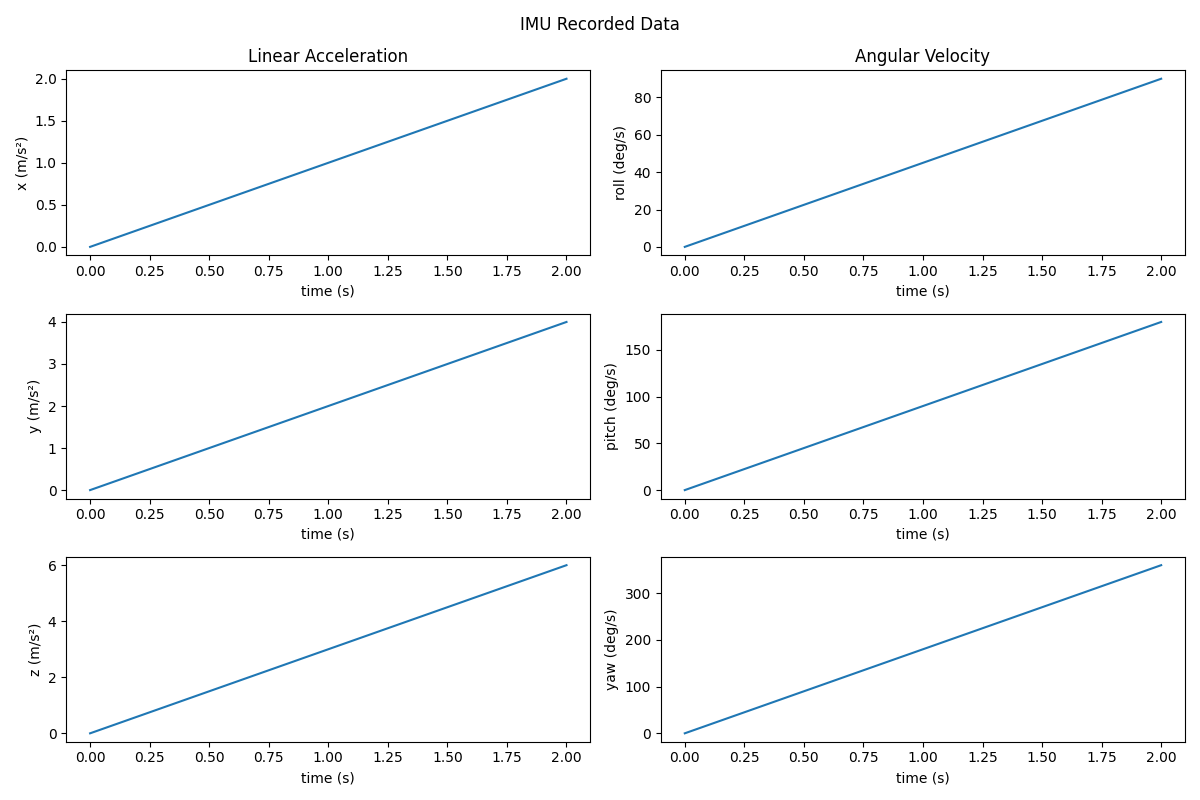
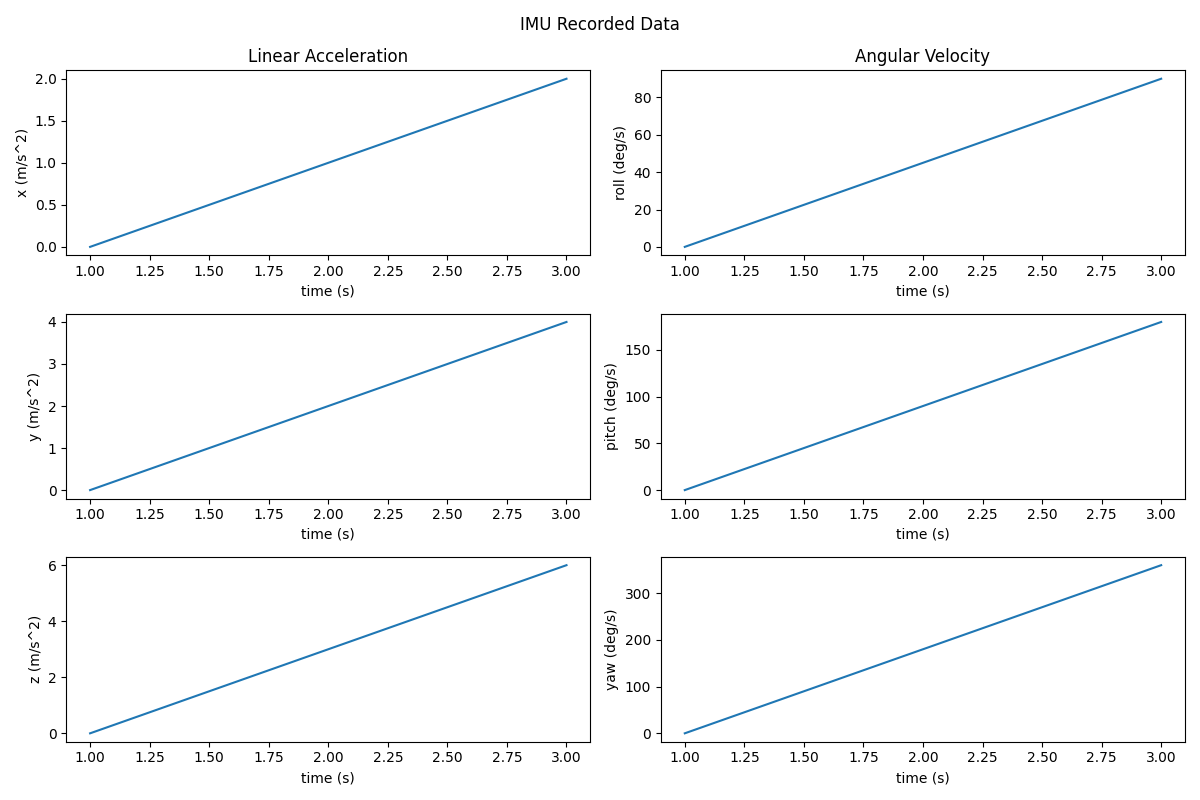
feat(signal-receptor): write data parser

diff --git a/signal/reception/receive.py b/signal/reception/receive.py
@@ -1,60 +1,100 @@
+from array import array
+import struct
+from typing import Any
+
 import matplotlib.pyplot as plt
+
+# Device sends batches of IMU samples within each BLE notification as raw bytes in little-endian format.
+# Refer to IMUSensorPort.hpp for the exact C++ struct.
+IMU_SAMPLE_STRUCT = struct.Struct("<ffffffq")  # 6 floats, 1 int64_t timestamp
+IMU_SAMPLE_SIZE_BYTES = IMU_SAMPLE_STRUCT.size
+
+LOGGING_PERIOD_IN_NOTIFICATIONS = 5
+notificationCount = 0
 
 EXPORTED_DATA_FILE_NAME = "motionData"
 
-motionData = [
-    {
-        "a": {"x": 0, "y": 0, "z": 0},
-        "w": {"roll": 0, "pitch": 0, "yaw": 0},
-        "t": 0,
-    },
-    {
-        "a": {"x": 1, "y": 2, "z": 3},
-        "w": {"roll": 45, "pitch": 90, "yaw": 180},
-        "t": 1,
-    },
-    {
-        "a": {"x": 2, "y": 4, "z": 6},
-        "w": {"roll": 90, "pitch": 180, "yaw": 360},
-        "t": 2,
-    },
-]
+# Prefer C-typed arrays over Python lists/dictionaries for better performance and lower memory overhead
+ax = array("f")
+ay = array("f")
+az = array("f")
+roll = array("f")
+pitch = array("f")
+yaw = array("f")
+tMicroseconds = array("q")
 
 
-def plot():
-    t = [row["t"] for row in motionData]
-    ax = [row["a"]["x"] for row in motionData]
-    ay = [row["a"]["y"] for row in motionData]
-    az = [row["a"]["z"] for row in motionData]
-    roll = [row["w"]["roll"] for row in motionData]
-    pitch = [row["w"]["pitch"] for row in motionData]
-    yaw = [row["w"]["yaw"] for row in motionData]
+def onImuNotification(characteristic: Any, data: bytearray) -> None:
+    global notificationCount
+
+    payload = memoryview(data)
+    payloadSize = payload.nbytes
+
+    if payloadSize == 0:
+        return
+
+    if payloadSize % IMU_SAMPLE_STRUCT.size != 0:
+        raise ValueError("Invalid payload size")
+
+    for (
+        sampleAx,
+        sampleAy,
+        sampleAz,
+        sampleRoll,
+        samplePitch,
+        sampleYaw,
+        sampleT,
+    ) in IMU_SAMPLE_STRUCT.iter_unpack(payload):
+        ax.append(sampleAx)
+        ay.append(sampleAy)
+        az.append(sampleAz)
+        roll.append(sampleRoll)
+        pitch.append(samplePitch)
+        yaw.append(sampleYaw)
+        tMicroseconds.append(sampleT)
+
+    notificationCount += 1
+    if notificationCount >= LOGGING_PERIOD_IN_NOTIFICATIONS:
+        print(
+            f"Sample from batch: ax: {ax[-1]}, ay: {ay[-1]}, az: {az[-1]}, "
+            f"roll: {roll[-1]}, pitch: {pitch[-1]}, yaw: {yaw[-1]}, "
+            f"timestamp: {tMicroseconds[-1]}"
+        )
+        notificationCount = 0
+
+
+def plot() -> None:
+    if len(tMicroseconds) == 0:
+        print("No samples available to plot")
+        return
+
+    tSeconds = [t / 1000000.0 for t in tMicroseconds]
 
     fig, axes = plt.subplots(3, 2, figsize=(12, 8))
 
-    axes[0, 0].plot(t, ax)
-    axes[0, 0].set_ylabel("x (m/s²)")
+    axes[0, 0].plot(tSeconds, ax)
+    axes[0, 0].set_ylabel("x (m/s^2)")
     axes[0, 0].set_xlabel("time (s)")
     axes[0, 0].set_title("Linear Acceleration")
 
-    axes[0, 1].plot(t, roll)
+    axes[0, 1].plot(tSeconds, roll)
     axes[0, 1].set_ylabel("roll (deg/s)")
     axes[0, 1].set_xlabel("time (s)")
     axes[0, 1].set_title("Angular Velocity")
 
-    axes[1, 0].plot(t, ay)
-    axes[1, 0].set_ylabel("y (m/s²)")
+    axes[1, 0].plot(tSeconds, ay)
+    axes[1, 0].set_ylabel("y (m/s^2)")
     axes[1, 0].set_xlabel("time (s)")
 
-    axes[1, 1].plot(t, pitch)
+    axes[1, 1].plot(tSeconds, pitch)
     axes[1, 1].set_ylabel("pitch (deg/s)")
     axes[1, 1].set_xlabel("time (s)")
 
-    axes[2, 0].plot(t, az)
-    axes[2, 0].set_ylabel("z (m/s²)")
+    axes[2, 0].plot(tSeconds, az)
+    axes[2, 0].set_ylabel("z (m/s^2)")
     axes[2, 0].set_xlabel("time (s)")
 
-    axes[2, 1].plot(t, yaw)
+    axes[2, 1].plot(tSeconds, yaw)
     axes[2, 1].set_ylabel("yaw (deg/s)")
     axes[2, 1].set_xlabel("time (s)")
 
@@ -65,16 +105,39 @@ def plot():
     print("Plot saved as imuPlot.png")
 
 
-def exportMotionData():
-    with open(f"{EXPORTED_DATA_FILE_NAME}.csv", "w") as f:
-        f.write("t,ax,ay,az,roll,pitch,yaw\n")
-        for row in motionData:
+def exportMotionData() -> None:
+    with open(f"{EXPORTED_DATA_FILE_NAME}.csv", "w", encoding="utf-8") as f:
+        f.write("t_us,ax,ay,az,roll,pitch,yaw\n")
+        for (
+            sampleT,
+            sampleAx,
+            sampleAy,
+            sampleAz,
+            sampleRoll,
+            samplePitch,
+            sampleYaw,
+        ) in zip(
+            tMicroseconds,
+            ax,
+            ay,
+            az,
+            roll,
+            pitch,
+            yaw,
+        ):
             f.write(
-                f"{row['t']},{row['a']['x']},{row['a']['y']},{row['a']['z']},"
-                f"{row['w']['roll']},{row['w']['pitch']},{row['w']['yaw']}\n"
+                f"{sampleT},{sampleAx},{sampleAy},{sampleAz},{sampleRoll},{samplePitch},{sampleYaw}\n"
             )
     print(f"Motion data saved to {EXPORTED_DATA_FILE_NAME}.csv")
 
 
-plot()
-exportMotionData()
+if __name__ == "__main__":
+    # Local decode test without BLE: build one fake batch notification
+    fakePayload = bytearray(
+        IMU_SAMPLE_STRUCT.pack(0.0, 0.0, 0.0, 0.0, 0.0, 0.0, 1 * 1000000)
+        + IMU_SAMPLE_STRUCT.pack(1.0, 2.0, 3.0, 45.0, 90.0, 180.0, 2 * 1000000)
+        + IMU_SAMPLE_STRUCT.pack(2.0, 4.0, 6.0, 90.0, 180.0, 360.0, 3 * 1000000)
+    )
+    onImuNotification(None, fakePayload)
+    exportMotionData()
+    plot()

diff --git a/docs/misc/learning-sources.md b/docs/misc/learning-sources.md
@@ -127,11 +127,17 @@
 
 ## Python quirks
 
-## Asyncio
+### Asyncio
 
 - <https://www.youtube.com/watch?v=Qb9s3UiMSTA>
 - <https://docs.python.org/3/library/asyncio.html>
 
-## Bleak (BLE client)
+### Bleak (BLE client)
 
 - <https://bleak.readthedocs.io/en/latest/usage.html>
+
+### Bytes, structs, arrays
+
+- <https://docs.python.org/3/library/stdtypes.html#binary-sequence-types-bytes-bytearray-memoryview>
+- <https://docs.python.org/3/library/struct.html>
+- <https://docs.python.org/3/library/array.html>
